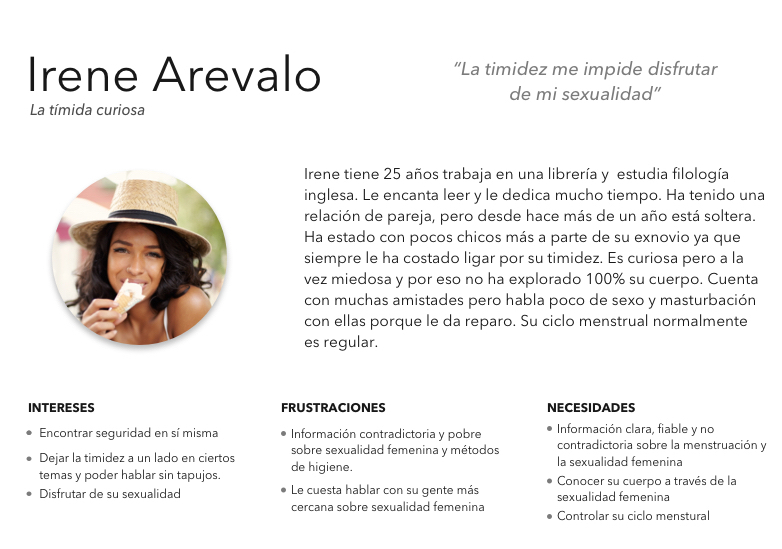
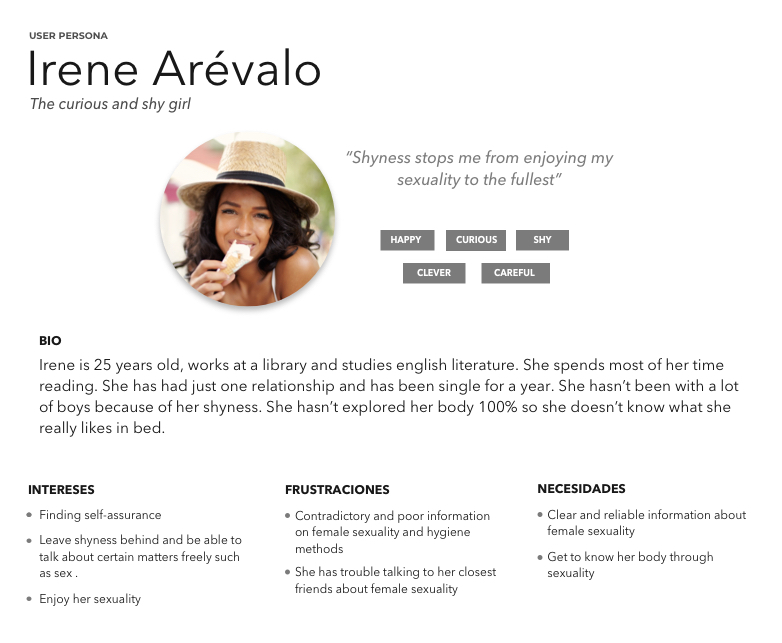
wip 11 junio

diff --git a/manko.html b/manko.html
@@ -46,9 +46,16 @@
                 </article>
                 <article>
                         <h2>Research</h2>
-                        <p>The first approach to the subject was a survey where I verified that women had <span class="green">
-                        little information about woman sexuality</span>. I also did a series of<span class="green">
-                         interviews </span>that confirmed that a game teaching women (and men) about female masturbation was necessary.</p><br>
+                        <p>The first thing I did was <span class="green">research about female sexuality</span> to see what was out there about the subject. 
+                        I found out something I already knew… female sexuality is a <span class="green">mystery for many woman and man.</span> I also found out about 
+                        a very interesting term, the <span class="green">orgasm gap</span>. Several studies have been done about this matter and the results are that almost a 
+                        50% of heterosexual woman didn’t orgasmed when sexually intimate against the 95% of heterosexual men who did orgasmed. 
+                        <span class="green">This is a problem.</span> And why is this happening? Well, <span class="green">woman do not know what they like because they do not know their body</span>, 
+                        among other reasons…
+                        </p><br>
+                        <p>After the first research on the subject I did a survey that verified that women had <span class="green">little information about woman sexuality</span> and that more of the 90% of the survey respondents 
+                        answered that they wanted to expand their knowledge about female masturbation, against the 10% who think they already know everything about it. 
+                        I also did a series of <span class="green">interviews</span> that confirmed that a game teaching women (and men) about female masturbation was necessary.</p><br>
                         <div class="quotes">
                         <p class="cursiva">“The self-knowledge of our body is very important and for women is difficult, as it is something we don’t have visible, we have to open and look.”</p><br>
                         <p class="cursiva">“Sometimes I don’t know how to tell my sexual partner what I like cause I haven’t discover it yet”
@@ -56,18 +63,23 @@
                         </div>
                 </article>
                 <article class="user-persona">
-                        <h2>User Persona</h2>
-                        <p>Based on the empathy map done with the insights of the surveys and the interviews I created Irene Árevalo, our user persona.</p>
+                        <h2>User Persona & User Journey</h2>
+                        <p>Based on the empathy map done with the insights of the surveys and the interviews I created Irene Arévalo, our user persona. Irene is one of these woman who doesn’t usually 
+                        orgasms during sexual intercourse. She has not explored her body therefore she doesn’t know what she likes and she can’t explain it to her sexual partners. Through the user journey 
+                        I could identify the touchpoints where the app would help the user solve her problems.
+                                </p>
                         <img src="images/userpersonairene.jpg" />
+                        <img src="images/ireneuserjourney.png" />
                 </article>
                 <article class="problem-statement">
                                 <h2>Problem statement</h2>
+                                <p>This is the problem my user persona has to deal with and is the one I have to solve with the main features of the app.</p>
                                 <div id="problem-text">
                                 <p>“Irene needs to know her body to enjoy her sexuality and avoid/notice possible illness”</p>
                                 </div>
                         </article>
                 <article>
-                        <h2>Features</h2>
+                        <h2>Defining the app</h2>
                         <p>Defined the problem of my users and using the Lean UX methodology I defined the features that the game was going to have.  
                         <div class="features">
                         <p><span class="green">Game</span> with the information written and on an educational video before playing.</p>
@@ -76,6 +88,15 @@
                         </div>
                         </p>
                 </article>
+                <article>
+                        <h2>Site Map & User Flows</h2>
+                                <p>Before to start working on wireframes, I did a card sorting and defined the site map of the app so I could see the relationship between the features and the navigation of the user. 
+                                I also did the user flow to see the path my user was going to take to complete the task. </p>
+                                <img src="images/sitemapmanko.png" />
+                                <img src="images/userflowmanko.png" />
+                                
+                        </article>
+
                 <article class="mid-fi">
                         <h2>Wireframes</h2>
                         <p>To <span class="green">test </span>quickly the idea I did <span class="green">low fidelity wireframes</span>. With the feedback received I created the <span class="green">mid-fi wireframes</span> to test the user flows.</p>
@@ -83,9 +104,8 @@
                 </article>
                 <article class="ui-design">
                         <h2>UI Design</h2>
-                        <p>The visual language  of the app had to represent:</p>
-                                <div class="ui-represent">
-                                <p><span class="green">Freshness, woman empowerment, sexuality and fun.</span></p></div>
+                        <p>The visual language  of the app had to represent: <span class="green">Freshness, woman empowerment, sexuality and fun.</span> To define the visual tone I made a moodboard that expressed those concepts through images and colors. 
+                                After that I did the style tile which led me to create the style guide for the app. </p>
                         <div class="piefoto">
                                 <img src="images/moodboard.png"/>
                                 <p>Moodboard</p>
@@ -95,7 +115,18 @@
                         
                 </article>
                 <article>
+                         <h2>Conclusions</h2>
+                         <p>After the tests with the users, this is what Manko achieves: gives woman (and man who want to discover how female 
+                        pleasure works) the <span class="green">tools to explore their sexuality</span> and thus get to know what they like and be able to
+                        explain it to their sexual partners in order to <span class="green">reach orgasms in every sexual relationship they have.</span>
+
+
+                         </p>
+                </article>
+                <article>
                         <h2>Prototype</h2>
+                        <p>Here you can find the prototype of the MVP of the app. It is not a full working prototype but it helped me to test the app and learn what the next steps are. The other techniques need to be developed
+                          and the Advices part.</p>
                         <iframe width="438" height="930" src="//invis.io/CBR8NFM6TW8" frameborder="0" allowfullscreen></iframe>
                 </article>
         </section> 
